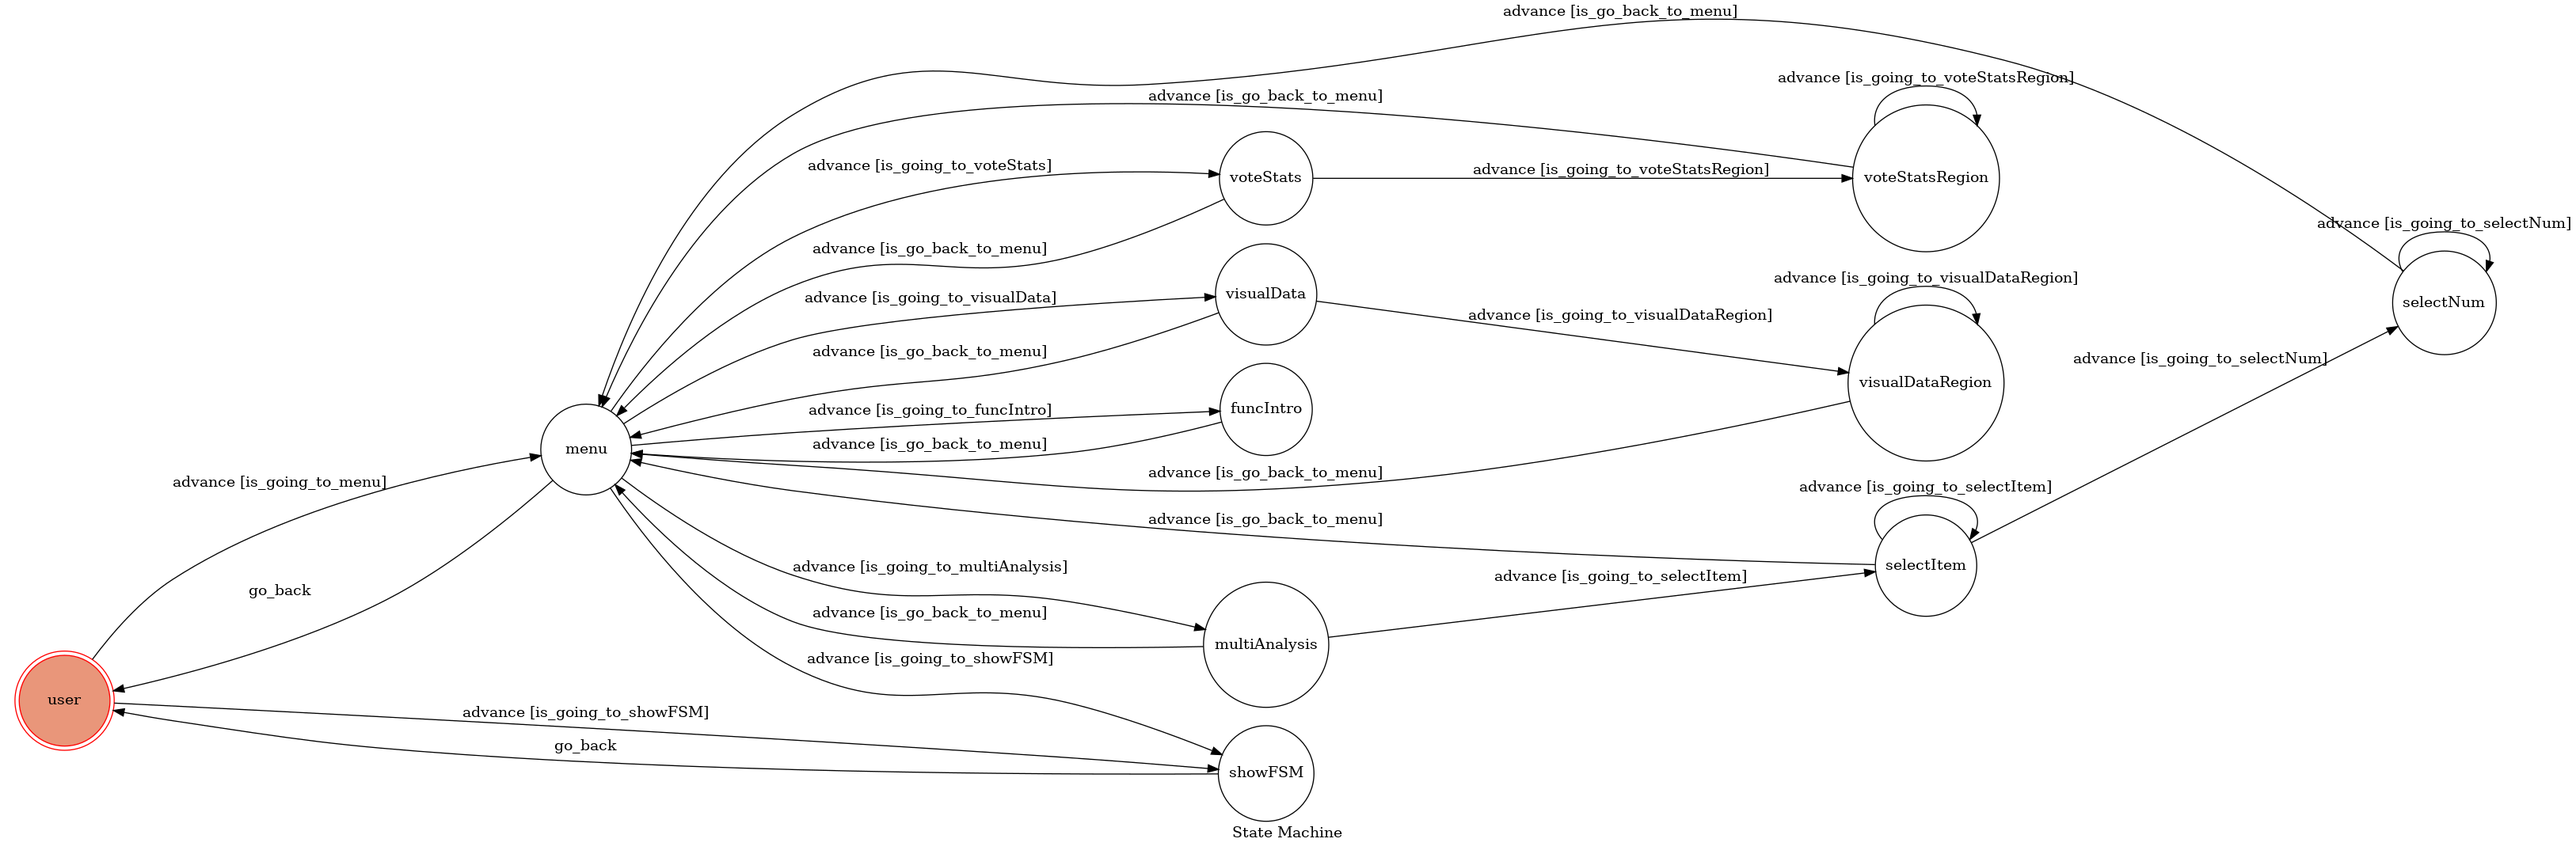
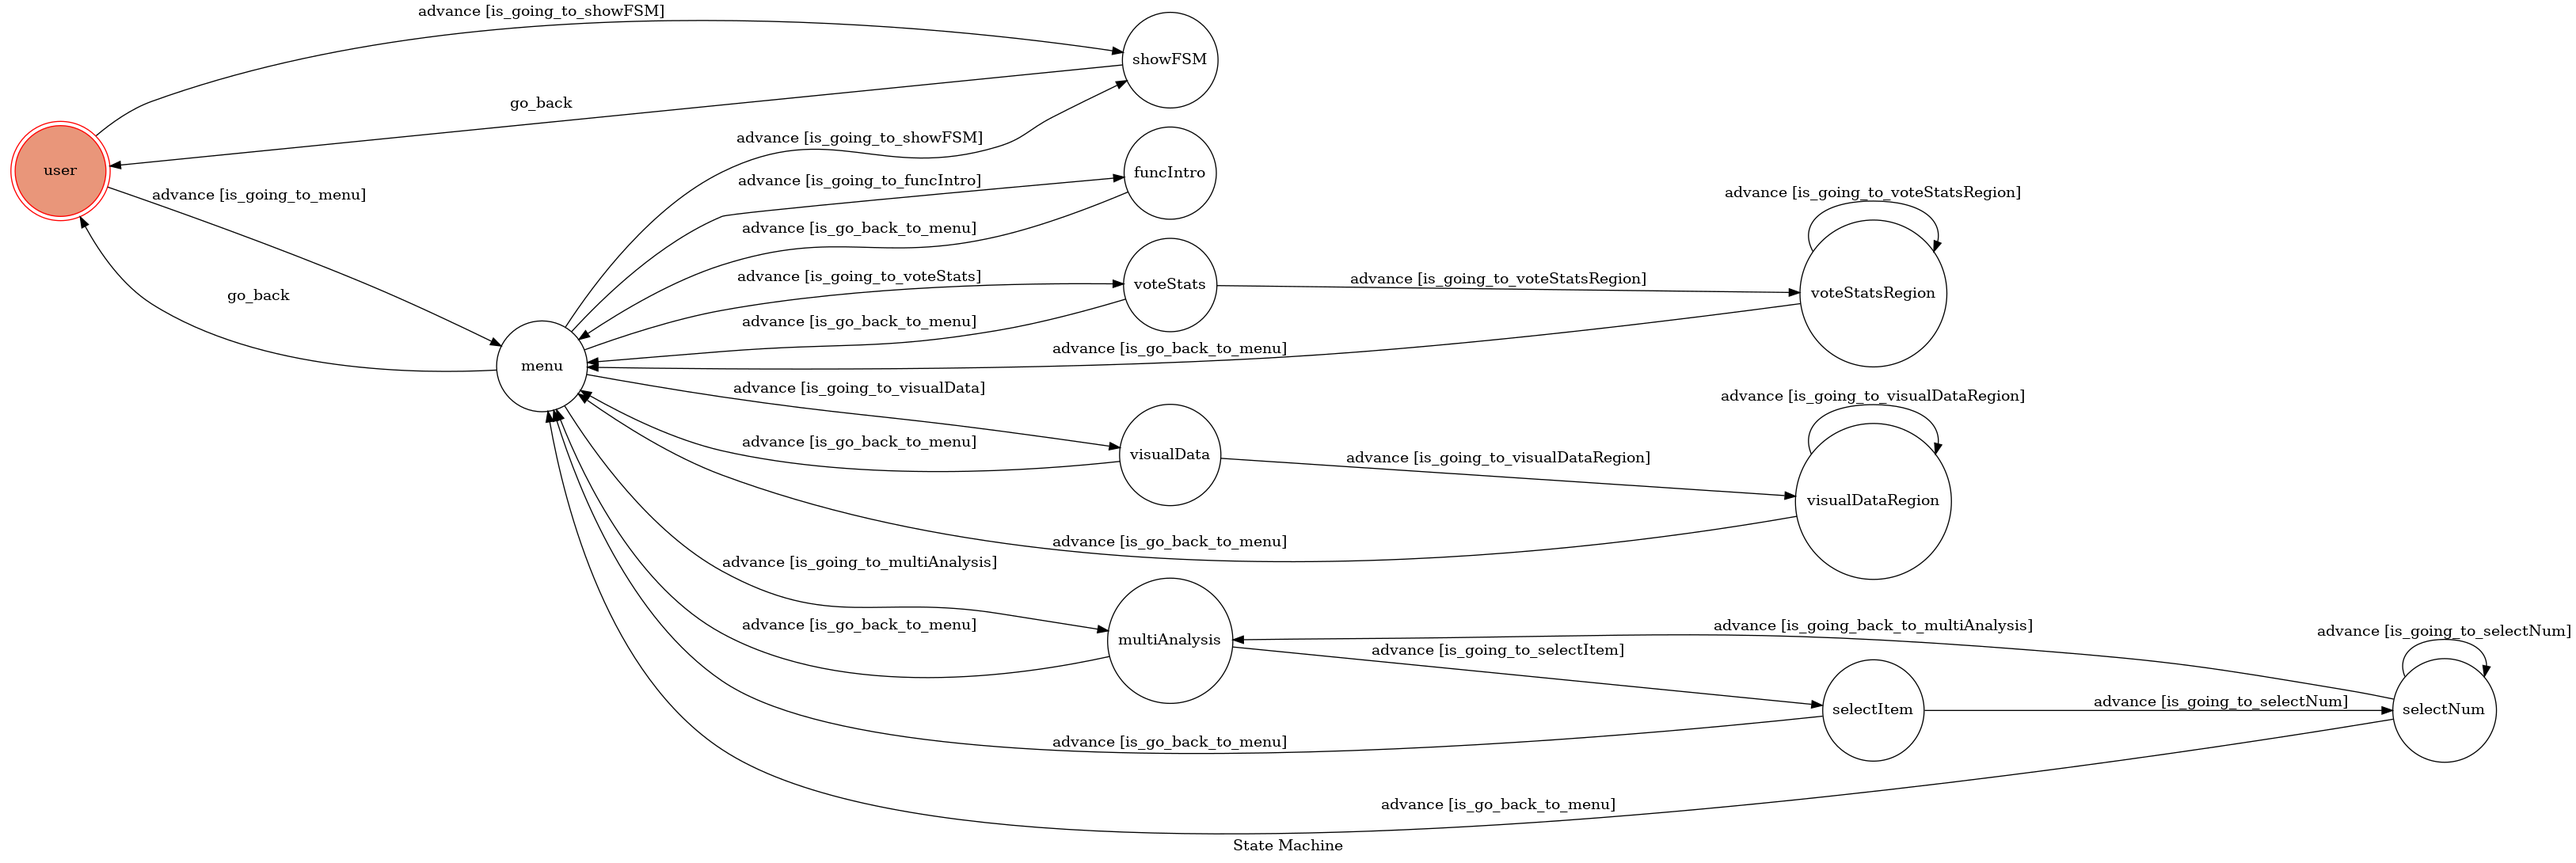
調整selectNum state的相關邏輯，並增加可重新選擇分析項目的按鈕

diff --git a/fsm.py b/fsm.py
@@ -14,8 +14,6 @@ if 'map' not in uploadURL.keys():
 if 'anyly' not in uploadURL.keys():
 	uploadURL['anyly'] = {}
 
-global selItem
-
 class TocMachine(GraphMachine):
 	def __init__(self, **machine_configs):
 		self.machine = GraphMachine(model=self, **machine_configs)
@@ -34,7 +32,7 @@ class TocMachine(GraphMachine):
 
 	def is_going_to_voteStatsRegion(self, event):
 		text = event.message.text
-		text = text.replace("總計", "合計")
+		text = text.replace("總計", "合計").replace("台", "臺")
 		for sep in "-,_ ":
 			splits = text.split(sep)
 			if len(splits)==3:
@@ -54,8 +52,8 @@ class TocMachine(GraphMachine):
 		return event.message.text == "視覺資料"
 
 	def is_going_to_visualDataRegion(self, event):
-		text = event.message.text
-		if text in ["全國", "臺灣", "台灣"]:
+		text = event.message.text.replace("台", "臺")
+		if text in ["全國", "臺灣"]:
 			return True
 		elif text in voteData[17]:
 			return True
@@ -83,12 +81,17 @@ class TocMachine(GraphMachine):
 			return True
 		except:
 			return False
+
+	def is_going_back_to_multiAnalysis(self, event):
+		text = event.message.text
+		return text == "重新選擇分析項目"
+
 	def is_going_to_funcIntro(self, event):
 		return event.message.text == "功能說明"
 
 	def is_go_back_to_menu(self, event):
 		text = event.message.text
-		return "返回" in text
+		return "目錄" in text or "menu" in text.lower()
 
 	# Enter states
 	def on_enter_menu(self, event):
@@ -109,7 +112,7 @@ class TocMachine(GraphMachine):
 		print("I'm entering voteStatsRegion")
 		reply_token = event.reply_token
 		text = event.message.text
-		text = text.replace("總計", "合計")
+		text = text.replace("總計", "合計").replace("台", "臺")
 
 		for sep in "-,_ ":
 			splits = text.split(sep)
@@ -149,7 +152,7 @@ class TocMachine(GraphMachine):
 
 		send_flex_message(event.reply_token, "顯示投票數據", message)
 
-		# 繼續輸入或輸入「返回」返回目錄（要多做按鈕）
+		# 繼續輸入或輸入「返回」返回目錄
 
 	def on_enter_visualData(self, event):
 		print("I'm entering visualData")
@@ -159,7 +162,7 @@ class TocMachine(GraphMachine):
 	def on_enter_visualDataRegion(self, event):
 		print("I'm entering visualDataRegion")
 		reply_token = event.reply_token
-		text = event.message.text
+		text = event.message.text.replace("台", "臺")
 		city = 'Taiwan' if text in ["全國", "臺灣", "台灣"] else text
 
 		message = copy.deepcopy(template.carousel)
@@ -194,7 +197,7 @@ class TocMachine(GraphMachine):
 		reply_token = event.reply_token
 		global selItem
 		selItem = event.message.text.split("-")
-		send_text_message(reply_token, f"您選擇的分析項目是{selItem[0]} {selItem[1]}，請輸入想分析的數量")
+		send_text_message(reply_token, f"您選擇的分析項目是{selItem[0]}-{selItem[1]}，請輸入想分析的數量")
 
 	def on_enter_selectNum(self, event):
 		print("I'm entering selectItem")
@@ -222,6 +225,9 @@ class TocMachine(GraphMachine):
 			cur_image_map['hero']['aspectRatio'] = "1.3:1"
 			cur_image_map['body']['contents'][0]['text'] = "若要查詢其他項目，請直接繼續輸入"
 			cur_image_map['footer']['contents'][0]['action']['uri'] = imgLink
+			# 重新選擇
+			cur_image_map['footer']['contents'].insert(1, copy.deepcopy(template.btn))
+			cur_image_map['footer']['contents'][0]['color'] = "#FF7F3F"
 			message['contents'].append(cur_image_map)
 		#print(message)
 		send_flex_message(event.reply_token, "顯示複合分析圖", message)

diff --git a/template.py b/template.py
@@ -252,7 +252,7 @@ image_map = {
       },
       {
         "type": "text",
-        "text": "若要返回主目錄，請點擊返回鍵",
+        "text": "若要返回主目錄，請點擊返回目錄鍵",
         "contents": []
       }
     ]
@@ -275,8 +275,8 @@ image_map = {
         "type": "button",
         "action": {
           "type": "message",
-          "label": "返回",
-          "text": "返回"
+          "label": "返回目錄",
+          "text": "返回目錄"
         },
         "color": "#95CD41",
         "style": "primary"
@@ -351,7 +351,7 @@ intro = {
       },
       {
         "type": "text",
-        "text": "將公投結果與各村里收入做複合分析",
+        "text": "將公投結果與各村里收入與年齡做複合分析",
         "wrap": True
       }
     ]
@@ -364,8 +364,8 @@ intro = {
         "type": "button",
         "action": {
           "type": "message",
-          "label": "返回",
-          "text": "返回"
+          "label": "返回目錄",
+          "text": "返回目錄"
         },
         "color": "#95CD41",
         "style": "primary"
@@ -405,8 +405,8 @@ text = {
         "type": "button",
         "action": {
           "type": "message",
-          "label": "返回",
-          "text": "返回"
+          "label": "返回目錄",
+          "text": "返回目錄"
         },
         "color": "#95CD41",
         "style": "primary"
@@ -428,8 +428,20 @@ text_subtitle = {
     "wrap": True,
     }
 
+btn = {
+  "type": "button",
+  "action": {
+    "type": "message",
+    "label": "重新選擇分析項目",
+    "text": "重新選擇分析項目"
+    },
+  "color": "#F6D860",
+  "style": "primary"
+  }
+
 if __name__ == '__main__':
     image_map['header']['contents'][0]['text'] = "標題"
     image_map['hero']['url'] = "LINK"
-    image_map['footer']['contents'][0]['action']['uri']  = "LINK"
-    print(image_map['footer']['contents'][0]['action']['uri'])
+    image_map['footer']['contents'].insert(1, btn)
+    print(image_map['footer']['contents'][0]['color'])
+    #print(image_map)

diff --git a/machine.py b/machine.py
@@ -73,14 +73,14 @@ def create_machine():
             {
                 "trigger": "advance",
                 "source": "selectItem",
-                "dest": "selectItem",
-                "conditions": "is_going_to_selectItem",
+                "dest": "selectNum",
+                "conditions": "is_going_to_selectNum",
             },
             {
                 "trigger": "advance",
-                "source": "selectItem",
-                "dest": "selectNum",
-                "conditions": "is_going_to_selectNum",
+                "source": "selectNum",
+                "dest": "multiAnalysis",
+                "conditions": "is_going_back_to_multiAnalysis",
             },
             {
                 "trigger": "advance",

diff --git a/README.md b/README.md
@@ -127,18 +127,18 @@ pipenv run python3 app.py
 ### States
 - `user`: 起始點，接收到追蹤訊息後進入`menu`
 - `showFSM`: 此階段隱藏，可從`user`和`menu`進入，用於回傳FSM圖
-- `menu`: 主選單目錄，可從顯示之選單進入以下4個功能階段
+- `menu`: 主選單目錄，可從顯示之選單進入以下4個功能階段，在任何階段輸入含有`menu`或`目錄`的文字可返回目錄
 - `voteStats`: 投票數據功能，若輸入合法進入`voteStatsRegion`
 	- input: `縣市-鄉鎮市區-村里`，以`-,_ `分隔皆可，允許只輸入`縣市-鄉鎮市區`或`縣市`
-	- `voteStatsRegion`: 顯示輸入地區之投票結果，允許再次輸入，或點擊返回回到`menu`
+	- `voteStatsRegion`: 顯示輸入地區之投票結果，允許再次輸入，或點擊`返回目錄`回到`menu`
 - `visualData`: 視覺化數據功能，若輸入合法進入`visualDataRegion`
 	- input: `全國` 或 `縣市`，因圖資只到鄉鎮層級，無法產生鄉鎮市區的分層設色圖
-	- `visualDataRegion`: 顯示輸入地區之分層設色圖，允許再次輸入，或點擊返回回到`menu`
+	- `visualDataRegion`: 顯示輸入地區之分層設色圖，允許再次輸入，或點擊`返回目錄`回到`menu`
 - `multiAnalysis`: 複合分析功能，可根據收入、年齡，進行複合分析，分析項目以選單顯示
 	- input: `收入-分析項目` 或 `年齡-分析項目`，選單將呈現主要的項目
-	- `selectItem`: 選擇分析項目後允許輸入選取的資料數量(前後各100)，輸入返回回到`menu`
+	- `selectItem`: 選擇分析項目後允許輸入選取的資料數量，輸入`目錄`回到`menu`
 	- input: `整數值`，即分析項目下分析前後多少數量
-	- `selectNum`: 根據輸入項目、數量，顯示投票結果與對應資料的複合分析，允許再次輸入(分析數量)，或點擊返回回到`menu`
+	- `selectNum`: 根據輸入項目、數量，顯示投票結果與對應資料的複合分析，允許再次輸入分析數量、`重新選擇分析項目`回到`multiAnalysis`、或點擊`返回目錄`回到`menu`
 - `funcIntro` : 功能介紹，點擊返回回到`menu`
 
 ### ScreenShots
